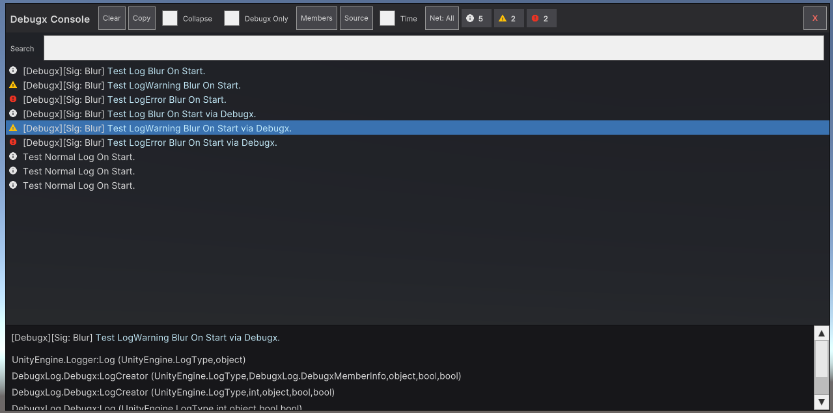
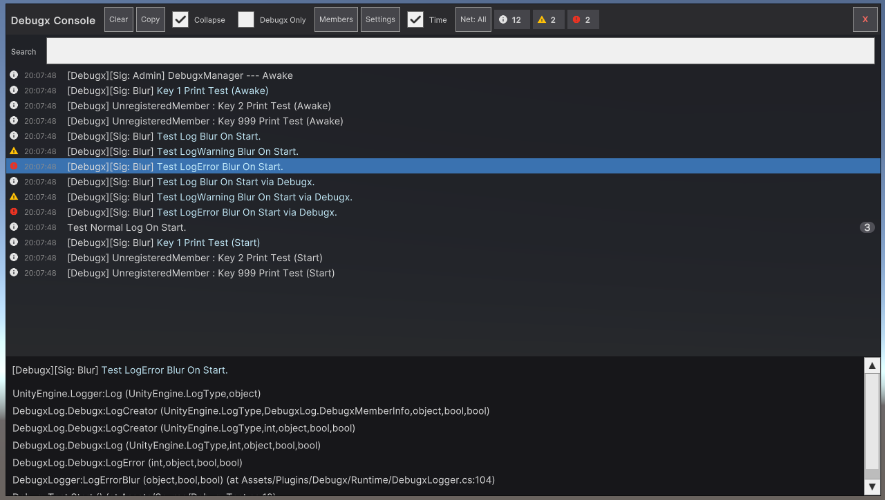
【Console】 游戏中 Settings 小窗口更新。；尺寸调整。

Changed region(s): [[0.0, 0.0, 0.9988, 0.5521], [0.0, 0.6102, 1.0, 1.0], [0.9676, 0.4358, 0.9988, 0.4649]]

diff --git a/Assets/Plugins/Debugx/Runtime/ConsoleUI/DebugxRuntimeConsole.Source.cs b/Assets/Plugins/Debugx/Runtime/ConsoleUI/DebugxRuntimeConsole.Source.cs
@@ -28,7 +28,7 @@ namespace DebugxLog.Console.Runtime
 
         private Button BuildSourceButton()
         {
-            _sourceButton = new Button(ToggleSourcePopup) { text = "Source" };
+            _sourceButton = new Button(ToggleSourcePopup) { text = "Settings" };
             StyleToolbarButton(_sourceButton);
             return _sourceButton;
         }
@@ -54,7 +54,7 @@ namespace DebugxLog.Console.Runtime
             header.style.paddingTop = 2;
             header.style.paddingBottom = 2;
 
-            var titleLabel = new Label("Runtime Switches");
+            var titleLabel = new Label("Runtime Settings");
             titleLabel.style.color = DebugxRuntimeConsoleStyle.TextColor;
             titleLabel.style.unityFontStyleAndWeight = FontStyle.Bold;
             titleLabel.style.flexGrow = 1;
@@ -63,9 +63,10 @@ namespace DebugxLog.Console.Runtime
             header.Add(close);
             popup.Add(header);
 
-            // Make the semantic distinction explicit (§6-B8): these change real printing, not the view filter.
-            // 明示语义区分（§6-B8）：这些改的是真实打印，不是视图过滤。
-            var note = new Label("Changes real printing, not the view.");
+            // Make the semantic distinction explicit (§6-B8): the switches below change real printing, not the view filter
+            // (the Buffer section at the bottom is the exception — it is a view/storage setting).
+            // 明示语义区分（§6-B8）：下面的开关改的是真实打印，不是视图过滤（底部的 Buffer 一项例外——它是视图/存储设置）。
+            var note = new Label("Switches below change real printing, not the view.");
             note.style.color = DebugxRuntimeConsoleStyle.TimestampColor;
             note.style.fontSize = DebugxRuntimeConsoleStyle.FontSizeSmall;
             note.style.whiteSpace = WhiteSpace.Normal;
@@ -120,8 +121,11 @@ namespace DebugxLog.Console.Runtime
             onlyLabel.style.fontSize = DebugxRuntimeConsoleStyle.FontSizeSmall;
             onlyLabel.style.marginRight = 6;
 
+            // Compact fixed width instead of flexGrow: the field only holds a small member key, so a narrow box fits the
+            // 260px popup and no longer stretches across the whole row.
+            // 用紧凑定宽替代 flexGrow：这里只填一个不大的成员 key，窄框即可贴合 260px 弹层，不再撑满整行。
             var onlyField = new IntegerField { value = Debugx.logThisKeyMemberOnly };
-            onlyField.style.flexGrow = 1;
+            onlyField.style.width = 64;
             onlyField.RegisterValueChangedCallback(evt => Debugx.logThisKeyMemberOnly = evt.newValue);
 
             onlyRow.Add(onlyLabel);
@@ -149,6 +153,44 @@ namespace DebugxLog.Console.Runtime
                         v => Debugx.SetMemberEnable(key, v)));
                 }
             }
+
+            // Buffer capacity — a VIEW/storage setting (unlike the switches above, this does not change real printing):
+            // the runtime Console's ring-buffer size. Editing it live-resizes the active buffer immediately (shrinking
+            // drops the oldest overflow) AND persists the size via DebugxStaticData so it is reused on the next Play.
+            // 环形缓冲容量——一个视图/存储设置（区别于上面的开关，它不改变真实打印）：运行时 Console 的环形缓冲大小。编辑时
+            // 即时改变当前缓冲大小（缩小则丢弃最旧的溢出条目），并通过 DebugxStaticData 持久化，使其在下次 Play 沿用。
+            var bufferTitle = new Label("Buffer");
+            bufferTitle.style.color = DebugxRuntimeConsoleStyle.TextColor;
+            bufferTitle.style.unityFontStyleAndWeight = FontStyle.Bold;
+            bufferTitle.style.marginTop = 4;
+            bufferTitle.style.marginLeft = 4;
+            _sourceListContainer.Add(bufferTitle);
+
+            var capRow = new VisualElement();
+            capRow.style.flexDirection = FlexDirection.Row;
+            capRow.style.alignItems = Align.Center;
+            capRow.style.marginLeft = 4;
+            capRow.style.marginTop = 2;
+            capRow.style.marginBottom = 2;
+
+            var capLabel = new Label("Capacity");
+            capLabel.style.color = DebugxRuntimeConsoleStyle.TextColor;
+            capLabel.style.fontSize = DebugxRuntimeConsoleStyle.FontSizeSmall;
+            capLabel.style.marginRight = 6;
+
+            int currentCap = _store != null ? _store.Capacity : DebugxStaticData.RuntimeConsoleBufferCapacity;
+            var capField = new IntegerField { value = currentCap };
+            capField.style.width = 64;
+            capField.RegisterValueChangedCallback(evt =>
+            {
+                int c = Mathf.Max(1, evt.newValue);
+                if (_store != null) _store.Capacity = c; // live-resize the active buffer. 即时改变当前缓冲大小。
+                DebugxStaticData.RuntimeConsoleBufferCapacity = c; // persist for next Play. 持久化，供下次 Play 使用。
+            });
+
+            capRow.Add(capLabel);
+            capRow.Add(capField);
+            _sourceListContainer.Add(capRow);
         }
 
         // A tight [checkbox][label] row reflecting + writing a bool (reuses the toolbar's BuildCheckToggle layout).

diff --git a/Assets/Plugins/Debugx/Runtime/DebugxStaticData.cs b/Assets/Plugins/Debugx/Runtime/DebugxStaticData.cs
@@ -101,6 +101,22 @@ namespace DebugxLog
             set => PlayerPrefsSetBool("DebugxStaticData.RuntimeConsoleEnabled", value);
         }
 
+        // Ring-buffer capacity of the in-game runtime overlay Console (DebugxRuntimeConsole). Read once when the buffer is
+        // created (EarlyCapture / OnEnable). The Console's Settings popup exposes a "Capacity" field that live-resizes the
+        // active buffer AND writes this value, so the chosen size also persists to the next Play. Editor-only PlayerPrefs
+        // like RuntimeConsoleEnabled — a player build keeps its own store and falls back to the default below (the Editor
+        // value does NOT carry into a build). §8 rule of thumb: 500–1000 mobile / 2000–5000 desktop.
+        // 游戏内运行时覆盖层 Console（DebugxRuntimeConsole）的环形缓冲容量。在缓冲创建时读取一次（EarlyCapture / OnEnable）。
+        // Console 的 Settings 弹层有一个 “Capacity” 输入框，会即时改变当前缓冲大小并写入此值，故所选尺寸也会沿用到下次 Play。
+        // 与 RuntimeConsoleEnabled 一样是编辑器 PlayerPrefs——实机构建用自身存储并回退到下方默认值（编辑器里的值不会带进构建）。
+        // §8 经验值：移动 500–1000 / 桌面 2000–5000。
+        public const int RuntimeConsoleBufferCapacityDefault = 4000;
+        public static int RuntimeConsoleBufferCapacity
+        {
+            get => Mathf.Max(1, PlayerPrefs.GetInt("DebugxStaticData.RuntimeConsoleBufferCapacity", RuntimeConsoleBufferCapacityDefault));
+            set => PlayerPrefs.SetInt("DebugxStaticData.RuntimeConsoleBufferCapacity", Mathf.Max(1, value));
+        }
+
         #region Text
         public const string ToolTipDefaultDebugxMemberAssets = "默认调试成员信息列表";
         public const string ToolTipCustomDebugxMemberAssets = "自定义调试成员信息列表";

diff --git a/Assets/Plugins/Debugx/Runtime/ConsoleUI/DebugxRuntimeConsoleStyle.cs b/Assets/Plugins/Debugx/Runtime/ConsoleUI/DebugxRuntimeConsoleStyle.cs
@@ -45,7 +45,10 @@ namespace DebugxLog.Console.Runtime
 
         // Sizing. 尺寸。
         public const float ListItemHeight = 22f;
-        public const float DetailPaneHeight = 130f;
+        // Fixed height of the bottom detail/stack pane. Roomy enough to read a message plus a few stack frames without
+        // squeezing the list (the panel is enlarged to match — see BuildPanel).
+        // 底部详情/堆栈面板的固定高度。足够读一条消息加几帧堆栈而不挤压列表（面板整体也相应放大——见 BuildPanel）。
+        public const float DetailPaneHeight = 200f;
         public const float SeverityBarWidth = 4f;
         public const float TimestampWidth = 56f;
         public const int CountOverflowThreshold = 999;
@@ -79,8 +82,9 @@ namespace DebugxLog.Console.Runtime
         // backquote key). 触屏端同时按下、点击即可开合 Console 的手指数（反引号键的移动端替代）。
         public const int SummonTouchCount = 3;
 
-        // Ring-buffer capacity for the runtime Console (mobile-friendly default; §8 suggests 500–1000 mobile / 2000–5000 desktop).
-        // 运行时 Console 的环形缓冲容量（对移动端友好的默认值；§8 建议移动 500–1000 / 桌面 2000–5000）。
-        public const int RuntimeBufferCapacity = 1000;
+        // Ring-buffer capacity moved to a persisted, user-editable setting: DebugxStaticData.RuntimeConsoleBufferCapacity
+        // (default 4000; live-editable via the Console's Settings popup). §8 rule of thumb: 500–1000 mobile / 2000–5000 desktop.
+        // 环形缓冲容量已迁移为可持久化、用户可编辑的设置：DebugxStaticData.RuntimeConsoleBufferCapacity
+        // （默认 4000；可在 Console 的 Settings 弹层里即时修改）。§8 经验值：移动 500–1000 / 桌面 2000–5000。
     }
 }

diff --git a/Assets/Plugins/Debugx/Runtime/ConsoleUI/DebugxRuntimeConsole.cs b/Assets/Plugins/Debugx/Runtime/ConsoleUI/DebugxRuntimeConsole.cs
@@ -70,7 +70,7 @@ namespace DebugxLog.Console.Runtime
             if (_earlyStore != null || _instance != null || !Application.isPlaying) return;
             if (!DebugxStaticData.RuntimeConsoleEnabled) return;
 
-            _earlyStore = new DebugxLogStore(DebugxRuntimeConsoleStyle.RuntimeBufferCapacity);
+            _earlyStore = new DebugxLogStore(DebugxStaticData.RuntimeConsoleBufferCapacity);
             _earlyStore.Start();
         }
 
@@ -167,7 +167,7 @@ namespace DebugxLog.Console.Runtime
             // console was enabled after BeforeSceneLoad). Start() is idempotent, so reusing an already-started store is safe.
             // 复用提前采集的 store（在 BeforeSceneLoad 订阅），使本 GameObject 存在之前的日志——如 DebugxManager.Awake——不丢失。
             // 若提前采集未运行（如在 BeforeSceneLoad 之后才启用 Console）则退回新建。Start() 幂等，复用已启动的 store 也安全。
-            _store = _earlyStore ?? new DebugxLogStore(DebugxRuntimeConsoleStyle.RuntimeBufferCapacity);
+            _store = _earlyStore ?? new DebugxLogStore(DebugxStaticData.RuntimeConsoleBufferCapacity);
             _earlyStore = null;
             _store.Start();
 

diff --git a/Assets/Plugins/Debugx/Runtime/ConsoleUI/DebugxRuntimeConsole.View.cs b/Assets/Plugins/Debugx/Runtime/ConsoleUI/DebugxRuntimeConsole.View.cs
@@ -112,7 +112,7 @@ namespace DebugxLog.Console.Runtime
             panel.style.left = 8;
             panel.style.top = 8;
             panel.style.width = Length.Percent(66);
-            panel.style.height = Length.Percent(58);
+            panel.style.height = Length.Percent(66);
             panel.style.minWidth = 320;
             panel.style.backgroundColor = DebugxRuntimeConsoleStyle.PanelBg;
             panel.style.flexDirection = FlexDirection.Column;